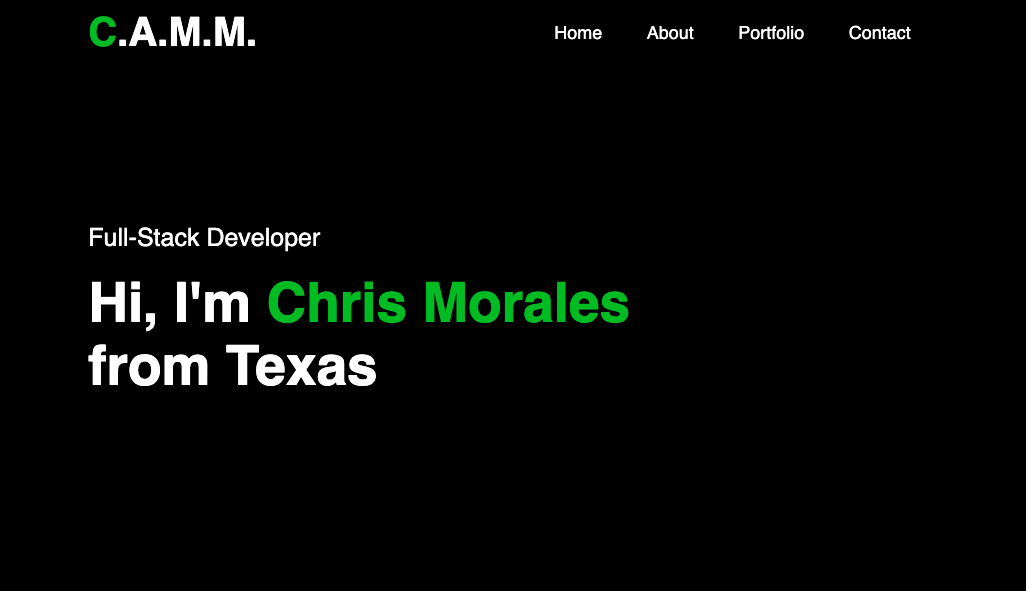
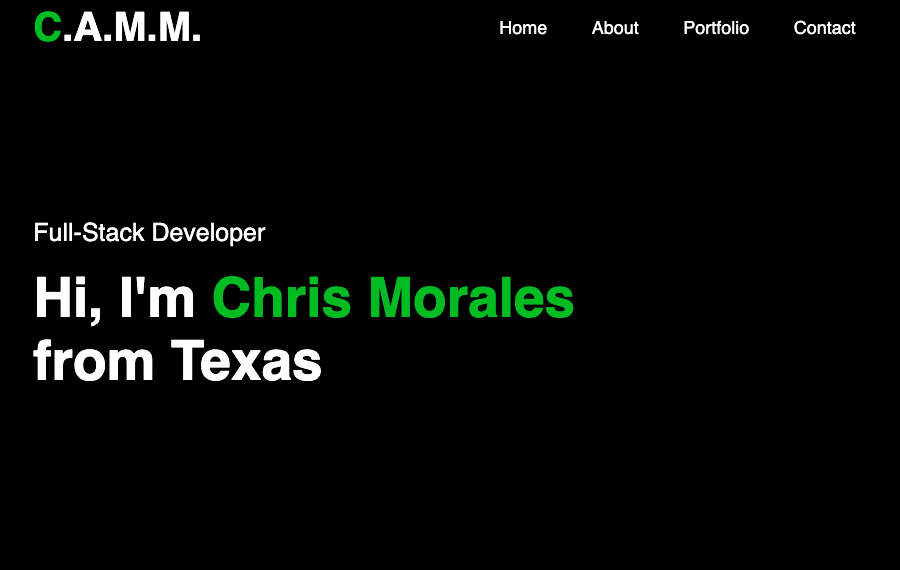
updated media queries and added family photo to the home

diff --git a/portfolio/src/App.css b/portfolio/src/App.css
@@ -1,5 +1,7 @@
+@import url('https://fonts.googleapis.com/css2?family=Poppins&display=swap');
+
+
 body {
-  border: 1px solid orange;
   margin: 0;
   padding: 0;
   background-color: rgb(18, 17, 17);
@@ -7,20 +9,18 @@ body {
 .app {
   display: flex;
   flex-direction: column;
-  border: 1px solid red;
+  font-family: 'Poppins', sans-serif;
 }
 /* NavBar */
 .app-header {
-  margin: 0;
   height: 30px;
   background-color: rgb(18, 17, 17);
   box-shadow: 0px 2px 4px 0px rgba(249, 248, 248, 0.1);
-  /* border-bottom: 1px solid white; */
 }
 .nav-logo{
   position: absolute;
   left: 15px;
-  top: -5px;
+  top: -9px;
   font-size: 18px;
   color: white;
   font-weight: 100;
@@ -46,6 +46,12 @@ body {
   margin: 40px 20px;
   color: white;
 }
+.home-title{
+  color: #04851b;
+}
+.home-description {
+  width: 90%;
+}
 .row {
   display: flex;
   justify-content: space-between;
@@ -53,18 +59,27 @@ body {
 }
 .home-col-1 {
   flex-basis: 60%;
+  flex: 1;
 }
 .home-col-2 {
   flex-basis: 35%;
   margin: auto 0;
+  flex: 1;
 }
 .home-col-2 img {
-  width: 100%;
+  width: 90%;
   border-radius: 15px;
+  margin-left: 5%;
 }
 /* Projects */
 .projects{
   color: white;
+  text-align: center;
+}
+.gallery {
+  display: flex;
+  justify-content: center;
+  flex-wrap: wrap;
 }
 .gallery-item {
   border: 1px solid white;
@@ -80,4 +95,111 @@ body {
 .gallery-item h4 a {
   color: green;
   text-decoration: none;
+  transition: font-size .3s ease-out;
+}
+.gallery-item h4 a:hover {
+  font-size: larger;
+}
+.gallery-item p {
+  font-size: 12px;
+  color: white;
+}
+.technologies {
+  margin: 5px 10px;
+}
+/* Contact */
+.contact-container {
+  margin: 30px;
+  padding: 20px;
+  color: white;
+}
+.contact-left {
+  flex-basis: 35%;
+}
+.contact-left h3 {
+  margin-bottom: 0;
+  color: #04851b;
+}
+.contact-right {
+  flex-basis: 50%;
+}
+.social-icons {
+  margin: 30px 0;
+}
+.contact-phone, .contact-email{
+  text-decoration: none;
+  color: white;
+  transition: font-size .5s ease;
+}
+.contact-phone:hover {
+  font-size: 18px;
+}
+.social-icons a {
+  font-size: 30px;
+  margin-right: 15px;
+  display: inline-block;
+  color: #ababab;
+  transition: transform .5s;
+}
+.social-icons a:hover {
+  color: #04851b;
+  transform: translateY(-5px);
+}
+.contact-right form {
+  width: 100%;
+}
+form input, form textarea {
+  width: 100%;
+  border: 0;
+  outline: none;
+  background: #262626;
+  padding: 10px;
+  margin: 15px 0; 
+  color: white;
+  font-size: 14px;
+  border-radius: 6px;
+}
+.btn {
+  padding: 5px 20px;
+  font-size: 16px;
+  margin-top: 20px;
+  text-decoration: none;
+  cursor: pointer;
+  background-color: green;
+  border: 1px solid rgb(159, 159, 159);
+  border-radius: 7px;
+  color: white;
+  transition: opacity .3s ease;
+}
+.btn:hover {
+  opacity: .8;
+}
+
+/* Media Queries */
+
+/* Contact */
+@media (max-width: 700px) {
+  .row{
+    display: flex;
+    flex-direction: column;
+    align-items: center;
+    justify-content: center;
+    gap: 2rem;
+  }
+  .contact-right form {
+    width: 95%;
+  }
+  .contact-left{
+    width: 95%;
+  }
+  /* Home */
+  .row{
+    flex-direction: column;
+  }
+  .home-col-2{
+    order: -1;
+  }
+  .home-description {
+    width: 100%;
+  }
 }

diff --git a/portfolio/src/components/Projects.jsx b/portfolio/src/components/Projects.jsx
@@ -2,13 +2,15 @@ import shouldIBuyImage from '../assets/Should I Buy.png'
 import quoteGenerator from '../assets/quoteGenerator.png'
 import samplePortfolioImage from '../assets/Sample Portfolio.png'
 import weatherApi from '../assets/Weather API.png'
+import devConnect from '../assets/DevConnect.png'
 
 
 const projectData = [
-  { id: 1, title: 'Should I Buy', imageUrl: shouldIBuyImage, siteLink: 'https://should-i-buy.netlify.app/' },
-  { id: 2, title: 'Quote Generator', imageUrl: quoteGenerator, siteLink: 'https://christophermoraleswebdev-quotes.netlify.app/' },
-  { id: 3, title: 'Sample Portfolio', imageUrl: samplePortfolioImage, siteLink: 'https://sample-portfolio-christopher-morales.netlify.app/#' },
-  { id: 4, title: 'Weather App', imageUrl: weatherApi, siteLink: 'https://weatherapichristophermorales.netlify.app/' },
+  { id: 1, title: 'DevConnect', imageUrl: devConnect, siteLink: 'https://www.youtube.com/watch?v=inoaW9zMyDI&t=15s', technologies: 'HTML | CSS | JavaScript | Axios | MongoDB | ExpressJS | Mongoose' },
+  { id: 2, title: 'Quote Generator', imageUrl: quoteGenerator, siteLink: 'https://christophermoraleswebdev-quotes.netlify.app/', technologies: 'HTML | CSS | JavaScript | Axios' },
+  { id: 3, title: 'Sample Portfolio', imageUrl: samplePortfolioImage, siteLink: 'https://sample-portfolio-christopher-morales.netlify.app/#', technologies: 'HTML | CSS | JavaScript' },
+  { id: 4, title: 'Weather App', imageUrl: weatherApi, siteLink: 'https://weatherapichristophermorales.netlify.app/', technologies: 'HTML | CSS | JavaScript | Axios' },
+  { id: 5, title: 'Should I Buy', imageUrl: shouldIBuyImage, siteLink: 'https://should-i-buy.netlify.app/', technologies: 'HTML | CSS | JavaScript | Axios' },
 ]
 
 const Projects = () => {
@@ -20,7 +22,7 @@ const Projects = () => {
           <div key={project.id} className="gallery-item">
             <img src={project.imageUrl} alt={project.title} />
             <h4>{project.title} <a href={project.siteLink} target='_blank'><i class="fa-solid fa-arrow-up-right-from-square"></i></a></h4>
-            
+            <p className='technologies'>{project.technologies}</p>
           </div>
         ))}
       </div>

diff --git a/portfolio/src/components/Home.jsx b/portfolio/src/components/Home.jsx
@@ -1,15 +1,16 @@
 import React from "react"
+
 const Home = () => {
   return (
       <div className="home-container">
             <div className="row">
                   <div className="home-col-1">
-                        <p>Full-Stack Developer</p>
+                        <p className="home-title">Full-Stack Developer | Software Engineer</p>
                         <h1>Hi, I'm Chris Morales</h1>
-                        <p>I'm a Software Engineer who loves creating user-friendly websites and applications. With a background in education and finance, I bring a fresh perspective to problem-solving. I approach every project with a positive attitude and a commitment to learning the latest technology trends. My goal is to use my problem-solving, organization, and continuous learning skills to make a significant impact in cutting-edge software engineering.</p>
+                        <p className="home-description">I'm a Software Engineer who loves creating user-friendly websites and applications. With a background in education and finance, I bring a fresh perspective to problem-solving. I approach every project with a positive attitude and a commitment to learning the latest technology trends. My goal is to use my problem-solving, organization, and continuous learning skills to make a significant impact in cutting-edge software engineering.</p>
                   </div>
                   <div className="home-col-2">
-                        <img src="https://images.unsplash.com/photo-1558203728-00f45181dd84?ixlib=rb-4.0.3&ixid=M3wxMjA3fDB8MHxwaG90by1wYWdlfHx8fGVufDB8fHx8fA%3D%3D&auto=format&fit=crop&w=874&q=80"/>
+                        <img src="src/assets/aboutMe.jpg"/>
                   </div>
             </div>
       </div>

diff --git a/portfolio/src/components/ContactMe.jsx b/portfolio/src/components/ContactMe.jsx
@@ -1,8 +1,30 @@
-import React from "react"
 
 const ContactMe = () => {
   return (
-    <div>ContactMe</div>
+    <div className="contact-container">
+      <div className="row">
+        <div className="contact-left">
+          <h1 class="sub-title">Contact Me</h1>
+          <h3>Email</h3>
+          <a className="contact-email" href="mailto:christopher.moraleswebdev@gmail.com">christopher.moraleswebdev@gmail.com</a>
+          <h3>Phone #</h3>
+          <a className="contact-phone" href="tel:+19562197290">(956) 219-7290</a>
+          <div class="social-icons">
+            <a href="https://github.com/christophermoraleswebdev" target="_blank"><i class="fa-brands fa-github fa-lg"></i></a>
+            <a href="https://www.linkedin.com/in/christopher-moralesse/" target="_blank"><i class="fa-brands fa-linkedin fa-lg"></i></a>
+          </div>
+          <a href="https://docs.google.com/document/d/1qO68bZuLZ0ftlELrCv_DMlp9S5dAp8oJNBVvcyPvWfo/edit?usp=sharing" target="_blank" class="btn resume-btn">Resume</a>
+        </div>
+        <div className="contact-right">
+          <form className="form">
+            <input type="text" placeholder="Your Name..." required/>
+            <input type="email" placeholder="Email..." required/>
+            <textarea rows="6" placeholder="Your Message"></textarea>
+            <button type="submit" className="btn">Submit</button>
+          </form>
+        </div>
+      </div>
+    </div>
   )
 }
 

diff --git a/portfolio/src/App.jsx b/portfolio/src/App.jsx
@@ -4,6 +4,7 @@ import Header from './components/Header'
 import Main from './components/Main'
 import Home from './components/Home'
 
+
 function App() {
 
   return (
@@ -15,6 +16,7 @@ function App() {
       <div className='app-main'>
         <Main />
       </div>
+
     </div>
   )
 }
